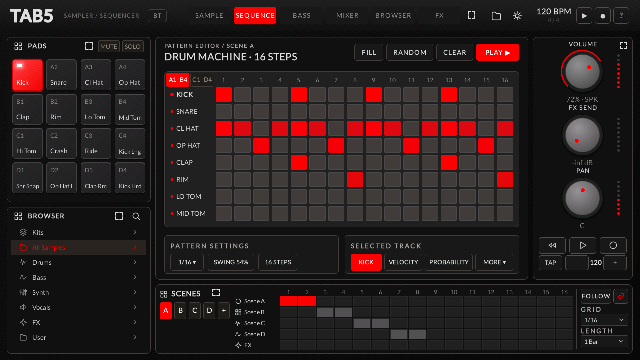
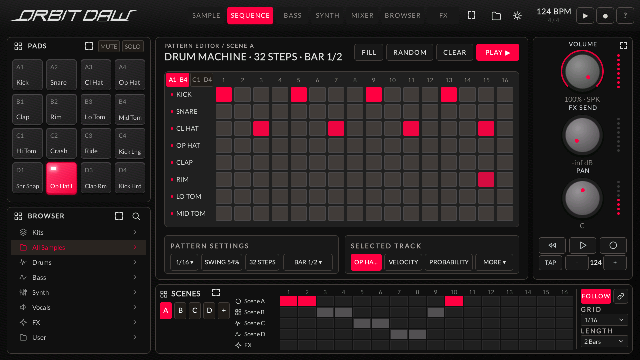
ORBIT DRUM 0.4.9: README for the release (SYNTH, M5Burner, new screenshots)
- README: the synth in the summary, a SYNTH row in the usage table and the screenshots, the Tab5 Keyboard table
  with SYNTH, installing with M5Burner / esptool from the whole-flash image, the status of the tests.
- New screenshots with the new wordmark, seven tabs and the new demo (SEQUENCE, SYNTH, SYNTH KEYS, BASS, BASS KEYS,
  SAMPLE, MIXER from the PC; SEQUENCE read back from a Tab5). render_ui waits for the toasts before the BASS and
  SYNTH shots.
- docs/M5BURNER.md links the GitHub repository.

diff --git a/host/render_ui.cpp b/host/render_ui.cpp
@@ -459,7 +459,7 @@ static void shotsOtherViews()
     // ACID BASS (0.3): a random line, then a step drawn on the line and a key of the keyboard
     nav(View::Bass);
     app().bassRandom();
-    runAudio(100);
+    runAudio(3300);   // the RANDOM toast has gone (README image)
     shot("view-bass");
     CHECK(app().bassStep(0).gate == 1, "RANDOM puts a note on step 1");
     // SYNTH (0.4.9): chords C Am F G, a long G, a note below and one above the two octaves (marks at the edges)
@@ -478,7 +478,7 @@ static void shotsOtherViews()
         a.setSynthStep(2, lo);
         a.setSynthStep(14, hi);
     }
-    runAudio(100);
+    runAudio(3300);   // no toast (README image)
     shot("view-synth");
 }
 

diff --git a/README.md b/README.md
@@ -1,13 +1,13 @@
 # ORBIT DRUM
 
-**A drum machine, sampler and 303-style bass synth for the M5Stack Tab5 (ESP32-P4).**
+**A drum machine, sampler, 303-style acid bass and 4-voice synth for the M5Stack Tab5 (ESP32-P4).**
 
 ![ORBIT DRUM, SEQUENCE view](docs/images/sequence.png)
 
 ORBIT DRUM is firmware written from scratch in C++17 on ESP-IDF 5.5.2 and LVGL 9.3 for the 5" 1280×720
 touch screen of the M5Stack Tab5. It has 16 multi-touch pads, a step sequencer, a sample editor, a mixer with
-effects, scenes and a song arrangement, and an acid bass line with a live keyboard. The engine renders at 48 kHz
-with about 7 ms of output latency.
+effects, scenes and a song arrangement, an acid bass line and a polyphonic synth with chords, both with a live
+keyboard for several fingers. The engine renders at 48 kHz with about 7 ms of output latency.
 
 Current version: **0.4.9**. Polish manual and version history: [docs/INSTRUKCJA_PL.md](docs/INSTRUKCJA_PL.md).
 
@@ -53,7 +53,7 @@ Current version: **0.4.9**. Polish manual and version history: [docs/INSTRUKCJA_
 - **USB-MIDI host** (USB-A): notes to pads, transport, clock in / out, MIDI learn for 32 controls.
 - **Bluetooth A2DP** headphones and speakers through an M5Stamp Pico bridge (see below).
 - **Sharp maximize**: any panel can be enlarged. It is rebuilt natively larger, with bigger fonts and icons, not
-  scaled up as a bitmap. The BASS view can take the whole screen. A category of the enlarged BROWSER panel opens
+  scaled up as a bitmap. The BASS and SYNTH views can take the whole screen. A category of the enlarged BROWSER panel opens
   its files in the large view at once.
 - **Tab5 Keyboard** (the M5Stack keyboard for the Tab5): shortcuts like Ableton Live and a computer MIDI keyboard
   (see [Tab5 Keyboard](#tab5-keyboard)). It can be plugged in and out while ORBIT runs.
@@ -67,12 +67,14 @@ Current version: **0.4.9**. Polish manual and version history: [docs/INSTRUKCJA_
 
 | | |
 |---|---|
+| ![SYNTH chord editor](docs/images/synth.png) | ![SYNTH KEYS, a chord](docs/images/synth-keys.png) |
+| SYNTH: the bar's notes over two octaves, the selected step's chord on the keyboard, knob pages | SYNTH KEYS: three fingers, a chord |
 | ![BASS step editor](docs/images/bass.png) | ![BASS KEYS, two fingers](docs/images/bass-keys.png) |
 | BASS: the 303 line, step row and step keyboard | BASS KEYS: two keys held, the newest one sounds |
 | ![SAMPLE editor](docs/images/sample.png) | ![MIXER](docs/images/mixer.png) |
 | SAMPLE editor | MIXER |
 | ![On the Tab5, dark palette](docs/images/device-sequence.png) | ![On the Tab5, BASS on the whole screen](docs/images/device-bass-full.png) |
-| On a Tab5 (DARK base, custom red accent) | BASS KEYS on the whole screen (on a Tab5) |
+| On a Tab5 (dark palette, red accent) | BASS KEYS on the whole screen (on a Tab5) |
 
 The first rows are rendered on a PC by the test harness; the last row is read back from a Tab5's screen.
 
@@ -99,6 +101,11 @@ Download the files from the [Releases](../../releases) page:
 - `ORBIT_DRUM_SD_<version>.zip`: unpack it to the root of a microSD card (it creates the `ORBIT` folder: the app
   image, a hardware self-test image and the kits).
 - `ORBIT_DRUM_<version>.bin`: the app image alone.
+- `ORBIT_DRUM_<version>_M5Burner.bin`: the whole flash image from address 0x0 (bootloader, partition table, app).
+
+**With M5Burner or esptool** (no launcher): erase the flash, then burn `ORBIT_DRUM_<version>_M5Burner.bin` at 0x0
+(M5Burner, or `esptool.py --chip esp32p4 write_flash 0x0 ORBIT_DRUM_<version>_M5Burner.bin`). ORBIT then runs on its
+own; it replaces whatever was on the Tab5, including a launcher. See [docs/M5BURNER.md](docs/M5BURNER.md).
 
 **With a launcher on the Tab5** (an app launcher that installs images from the SD card into its app slot, such as
 the UiFlow2 partition scheme with a 7552 KB `app0` slot): insert the card, choose `ORBIT/ORBIT_DRUM_<version>.bin`
@@ -121,9 +128,10 @@ metronome with latency and dropout statistics, headphone detection, the SD card,
 | **MIXER** | Faders (double tap = 0 dB), meters, M / S, L = limiter, C = metronome. |
 | **BROWSER** | Samples and kits from the card, the category list next to the search, ▶ PREVIEW, LOAD TO pad, LOAD KIT (with confirmation and UNDO). |
 | **FX** | Reverb, delay, macros, limiter, master. |
+| **SYNTH** | Tap a step on the roll, then keys under it: a key adds its note to the step's chord (up to 4) or takes it out. LEN − / + and VEL set the step's notes and the next new ones; DEL, OCT ±, BAR < >. Knob pages OSC 1, OSC 2, FILTER, ENV, LFO, VOICE; PATCH < > loads the factory patches. MUTE, CLEAR with UNDO. **KEYS**: the live two-octave keyboard, every finger sounds (chords), ALL OFF. |
 | **BASS** | Tap a step, then a key (the note, then the next step), or draw notes on the line. GATE / ACCENT / SLIDE / OCT ± for the selected step, SAW / SQR, MUTE, RANDOM, CLEAR with UNDO. **KEYS**: the live two-octave keyboard (OCT ± range, ACCENT, SLIDE). The line spans C0–C5. Knobs: CUTOFF, RESO, ENV MOD, DECAY, ACCENT, DRIVE, FX SEND, LEVEL. |
 | **Right panel** | VOLUME of the output that plays now (speaker, headphones or Bluetooth), FX SEND and PAN of the selected pad, transport, TAP tempo, BPM ± (hold to type it). |
-| **Maximize** | The corner-marks button of a panel enlarges it; the same button restores it. BASS has its own button next to PLAY for the whole screen. In the enlarged BROWSER panel a category (or the search) opens the large BROWSER view. |
+| **Maximize** | The corner-marks button of a panel enlarges it; the same button restores it. BASS and SYNTH have their own button next to PLAY for the whole screen. In the enlarged BROWSER panel a category (or the search) opens the large BROWSER view. |
 | **SCENES** | Scenes A–D, "+" for copy / clear / undo, the song slots and the FX row, GRID and LENGTH. |
 | **Top bar** | Folder = projects (save, open, new, delete, export JSON). Gear = settings (General, Audio, MIDI, Bluetooth, Display, Touch, Storage, About). ? = the guide. |
 
@@ -141,16 +149,16 @@ The M5Stack Tab5 Keyboard works like a computer keyboard in Ableton Live:
 | Shift+Space | Continue from where it stopped |
 | Enter | Play (when stopped) |
 | F9 | Record (REC) |
-| Tab / Shift+Tab | Next / previous view (SAMPLE, SEQUENCE, BASS, MIXER, BROWSER, FX) |
-| A W S E D F T G Y H U J K O L P ; ' | Notes (computer MIDI keyboard): in BASS the 303, elsewhere the pads A1–D4 |
-| Z / X | Octave down / up |
+| Tab / Shift+Tab | Next / previous view (SAMPLE, SEQUENCE, BASS, SYNTH, MIXER, BROWSER, FX) |
+| A W S E D F T G Y H U J K O L P ; ' | Notes (computer MIDI keyboard): in BASS the 303, in SYNTH the synth (keys held together play a chord), elsewhere the pads A1–D4 |
+| Z / X | Octave down / up (the bass; in SYNTH the synth) |
 | C / V | Velocity down / up |
 | M | Computer MIDI keyboard on / off |
 | Up / Down | Scene |
 | Left / Right | Pad |
 | 0 | Mute the selected pad |
 | F1–F8 | Mute the pads of the shown bank |
-| F11 | Enlarge the work area (BASS: the whole screen) |
+| F11 | Enlarge the work area (BASS, SYNTH: the whole screen) |
 | Esc | Close a dialog or menu, restore an enlarged panel |
 | Ctrl+Z | Undo |
 | Ctrl+S | Save the project |
@@ -218,7 +226,7 @@ The first configure downloads the components pinned in `firmware/dependencies.lo
 same way.
 
 ```bash
-bash tools/run_host_tests.sh      # 16 test suites on the PC (after the first configure above)
+bash tools/run_host_tests.sh      # 17 test suites on the PC (after the first configure above)
 python tools/make_release.py      # checks the images and assembles release/KARTA_SD (+ manifest.json)
 ```
 
@@ -252,10 +260,11 @@ python tools/device_test.py COM3 --soak 60
 
 Tested on one Tab5 (v1.3, ST7121 panel):
 
-- **PC**: all 16 test suites pass.
-- **Automated device test**: 33 of 33 checks pass. It covers every view, the pads (two at once), the
-  transport, the scenes, BASS KEYS with two fingers, a knob turned while a key is held, full screen, maximize,
-  every settings page, and 60 s of playback without audio dropouts.
+- **PC**: all 17 test suites pass.
+- **Automated device test** (`tools/device_test.py`): every view, the pads (two at once), the transport, the
+  scenes, the demo (no dropouts, audio core below 60 %), BASS KEYS with two fingers, SYNTH (a chord into a step,
+  three fingers on KEYS, a knob turned while keys are held), full screen, maximize, every settings page, big memory
+  work while the music plays, and 60 s of playback without audio dropouts.
 - **Not yet checked on hardware**: USB-MIDI with a real controller, and the Bluetooth buffer re-sync with real
   headphones.
 

diff --git a/docs/M5BURNER.md b/docs/M5BURNER.md
@@ -34,7 +34,7 @@ Tab5 Keyboard (the M5Stack keyboard for the Tab5; plug it in any time)
 - A W S E D F T G Y H U J K O L P ; ' play notes: the pads, or the bass / the synth in their views (keys held
   together play a chord in SYNTH) · Z / X octave · C / V velocity · M notes on / off
 
-GitHub: (link coming soon)
+GitHub: https://github.com/UNIZERSION/ORBIT-DRUM
 
 ## Opis po polsku (dla autora)
 
@@ -64,4 +64,4 @@ Klawiatura Tab5 (klawiatura M5Stack do Tab5; można podłączyć w każdej chwil
 - A W S E D F T G Y H U J K O L P ; ' grają nuty: pady albo bas / syntezator w ich widokach (w SYNTH klawisze
   trzymane razem grają akord) · Z / X oktawa · C / V głośność · M nuty wł. / wył.
 
-GitHub: (odnośnik wkrótce)
+GitHub: https://github.com/UNIZERSION/ORBIT-DRUM
